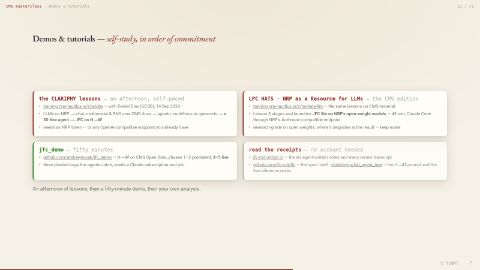
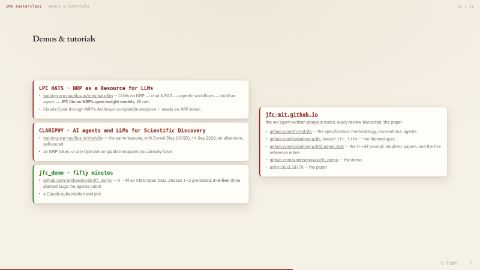
masterclass: tutorials slide — HATS, CLARIPHY, jfc_demo on the left; jfc-mit.github.io and the repos on the right
Assisted-by: claude-code:claude-fable-5-1

Changed region(s): [[0.0625, 0.2963, 0.9375, 0.7704], [0.2188, 0.1185, 0.4375, 0.1778]]

diff --git a/index.html b/index.html
@@ -1666,24 +1666,29 @@ cloneScene('t-resources', { id: 'm-resources', thumb: 'assets/ovthumb_m-resource
 
 /* ---- Part III · demos & tutorials ---- */
 { id: 'm-tutorials', thumb: 'assets/ovthumb_m-tutorials.jpg', act: 7, label: 'Demos & tutorials', steps: 1, budget: 60, theme: 'dark',
-  notes: 'Self-study, in order of commitment. CLARIPHY (14 Sep, Madison, with Daniel Diaz): five lessons, L5 is JFC on H→4ℓ. LPC HATS "NRP as a Resource for LLMs": the CMS edition, L5 stages and launches JFC lite on NRP open-weight models. jfc_demo: the 50-minute demo, next slide. The receipts: the six notes and every review transcript, the spec, and Phil\'s five H→4ℓ reference notes — Part IV lives on those.', html: () => `
-  <h2 class="kicker">Demos &amp; tutorials — <em>self-study, in order of commitment</em></h2>
-  <div style="flex:1; display:flex; flex-direction:column; justify-content:center; gap:1.8vmin; min-height:0">
-    <div class="cardgrid" style="grid-template-columns:1fr 1fr">
-      <div class="kcard"><div class="nm">the CLARIPHY lessons <span style="color:var(--ink40); font-weight:400">— an afternoon, self-paced</span></div><ul class="mini">
-        <li><a href="https://training.nrp-nautilus.io/clariphy/" target="_blank" rel="noopener">training.nrp-nautilus.io/clariphy</a> — with Daniel Diaz (UCSD), 14 Sep 2026</li>
-        <li>LLMs on NRP → chat, multimodal &amp; RAG over CMS docs → agentic workflows in opencode → <b>a 30-line agent</b> → <b>JFC on H→4ℓ</b></li>
-        <li>needs an NRP token — or any OpenAI-compatible endpoint you already have</li></ul></div>
-      <div class="kcard"><div class="nm">LPC HATS · NRP as a Resource for LLMs <span style="color:var(--ink40); font-weight:400">— the CMS edition</span></div><ul class="mini">
-        <li><a href="https://training.nrp-nautilus.io/cms-hats-llm/" target="_blank" rel="noopener">training.nrp-nautilus.io/cms-hats-llm</a> — the same lessons on CMS material</li>
-        <li>Lesson 5 stages and launches <b>JFC lite on NRP's open-weight models</b> — 45 min, Claude Code through NRP's Anthropic-compatible endpoint</li>
-        <li>open weights: research-grade, not a guaranteed demo</li></ul></div>
-      <div class="kcard" style="border-left-color:var(--green)"><div class="nm" style="color:var(--green)">jfc_demo <span style="color:var(--ink40); font-weight:400">— fifty minutes</span></div><ul class="mini">
-        <li><a href="https://github.com/andrzejnovak/jfc_demo" target="_blank" rel="noopener">github.com/andrzejnovak/jfc_demo</a> — H→4ℓ on CMS Open Data, phases 1–2 pre-baked, <b>3–5 live</b></li>
-        <li>three planted bugs the agents catch; needs a Claude subscription and pixi</li></ul></div>
-      <div class="kcard dim"><div class="nm">read the receipts <span style="color:var(--ink40); font-weight:400">— no account needed</span></div><ul class="mini">
-        <li><a href="https://jfc-mit.github.io" target="_blank" rel="noopener">jfc-mit.github.io</a> — the six agent-written notes and every review transcript</li>
-        <li><a href="https://github.com/jfc-mit/jfc" target="_blank" rel="noopener">github.com/jfc-mit/jfc</a> — the spec itself · <a href="https://github.com/violatingcp/h4l_agent_test" target="_blank" rel="noopener">violatingcp/h4l_agent_test</a> — the H→4ℓ prompt and the five reference notes</li></ul></div>
+  notes: 'Left, top to bottom: the LPC HATS (the CMS edition, JFC lite on NRP open weights), the CLARIPHY lessons (14 Sep, Madison, with Daniel Diaz), jfc_demo (the 50-minute demo). Right: the pointers — jfc-mit.github.io first (the six notes and every review transcript), then the spec, the lite branch, the H→4ℓ context, the demo, the paper.', html: () => `
+  <h2 class="kicker">Demos &amp; tutorials</h2>
+  <div class="cols" style="align-items:stretch; gap:2.4%">
+    <div class="col" style="flex:1.15; display:flex; flex-direction:column; gap:1.4vmin; min-width:0; justify-content:center">
+      <div class="kcard"><div class="nm">LPC HATS · NRP as a Resource for LLMs</div><ul class="mini">
+        <li><a href="https://training.nrp-nautilus.io/cms-hats-llm/" target="_blank" rel="noopener">training.nrp-nautilus.io/cms-hats-llm</a> — LLMs on NRP → chat &amp; RAG → agentic workflows → build an agent → <b>JFC lite on NRP's open-weight models</b>, 45 min</li>
+        <li>Claude Code through NRP's Anthropic-compatible endpoint — needs an NRP token</li></ul></div>
+      <div class="kcard"><div class="nm">CLARIPHY · AI agents and LLMs for Scientific Discovery</div><ul class="mini">
+        <li><a href="https://training.nrp-nautilus.io/clariphy/" target="_blank" rel="noopener">training.nrp-nautilus.io/clariphy</a> — the same lessons, with Daniel Diaz (UCSD), 14 Sep 2026; an afternoon, self-paced</li>
+        <li>an NRP token, or any OpenAI-compatible endpoint you already have</li></ul></div>
+      <div class="kcard" style="border-left-color:var(--green)"><div class="nm" style="color:var(--green)">jfc_demo · fifty minutes</div><ul class="mini">
+        <li><a href="https://github.com/andrzejnovak/jfc_demo" target="_blank" rel="noopener">github.com/andrzejnovak/jfc_demo</a> — H→4ℓ on CMS Open Data, phases 1–2 pre-baked, <b>3–5 live</b>; three planted bugs the agents catch</li>
+        <li>a Claude subscription and pixi</li></ul></div>
+    </div>
+    <div class="col" style="flex:1; display:flex; flex-direction:column; min-width:0; justify-content:center">
+      <div class="kcard" style="border-left-color:var(--accent)"><div class="nm"><a href="https://jfc-mit.github.io" target="_blank" rel="noopener">jfc-mit.github.io</a></div>
+        <div class="ds">the six agent-written analysis notes, every review transcript, the paper</div>
+        <ul class="mini" style="margin-top:1.2vmin">
+          <li><a href="https://github.com/jfc-mit/jfc" target="_blank" rel="noopener">github.com/jfc-mit/jfc</a> — the specification: methodology, conventions, agents</li>
+          <li><a href="https://github.com/violatingcp/jfc/tree/jfc_lite" target="_blank" rel="noopener">github.com/violatingcp/jfc</a>, branch <span class="mono">jfc_lite</span> — the thinned spec</li>
+          <li><a href="https://github.com/violatingcp/h4l_agent_test" target="_blank" rel="noopener">github.com/violatingcp/h4l_agent_test</a> — the H→4ℓ prompt, ntuplizer, papers, and the five reference notes</li>
+          <li><a href="https://github.com/andrzejnovak/jfc_demo" target="_blank" rel="noopener">github.com/andrzejnovak/jfc_demo</a> — the demo</li>
+          <li>${arxiv('2603.20179')} — the paper</li></ul></div>
     </div>
   </div>`
 },
